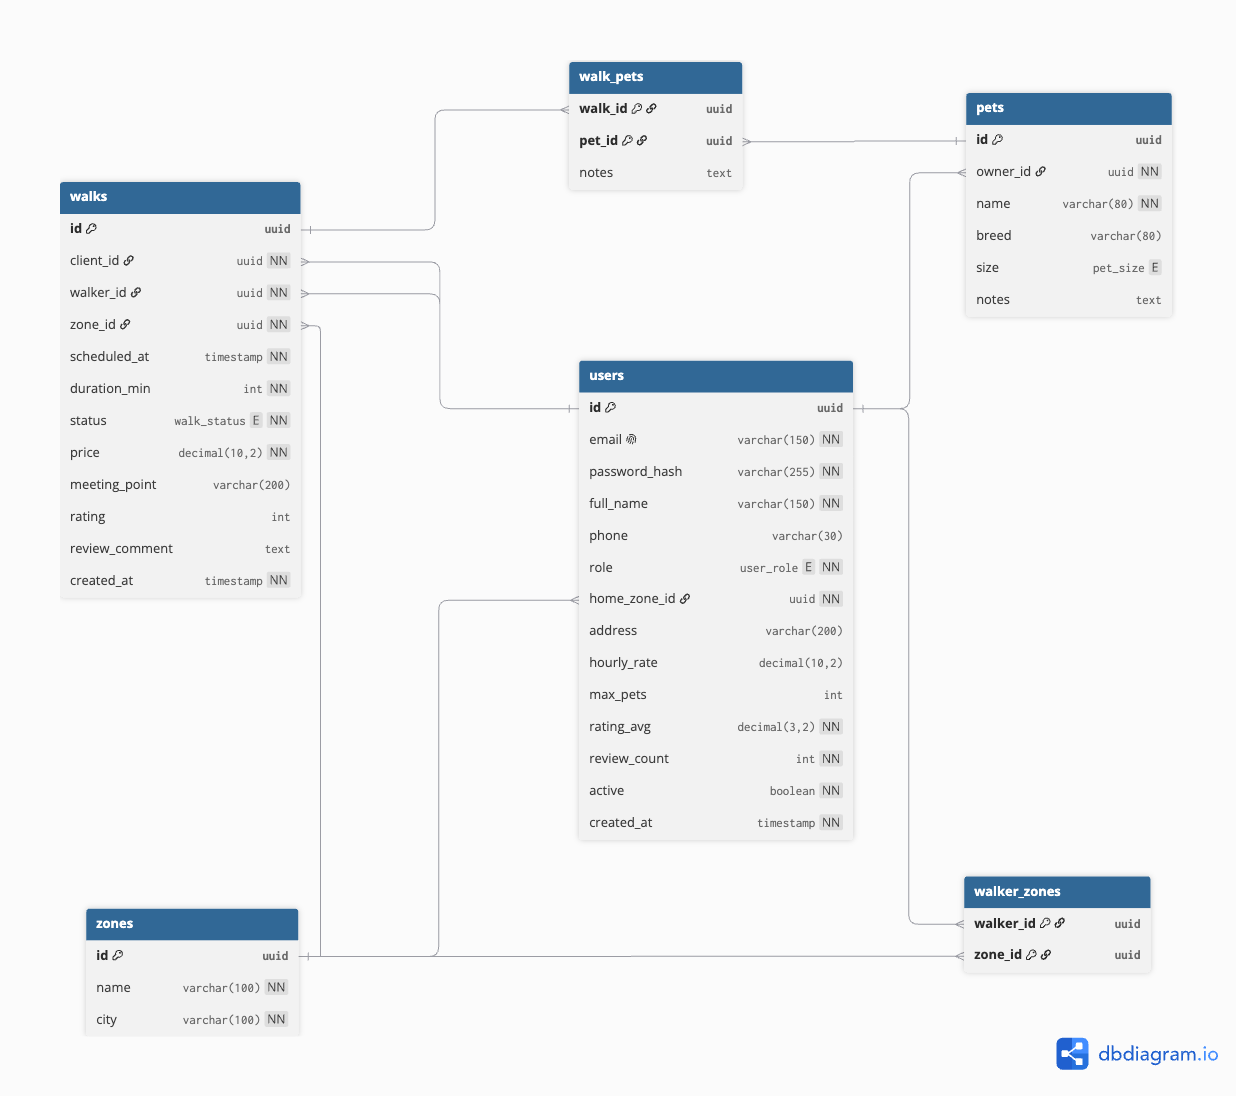
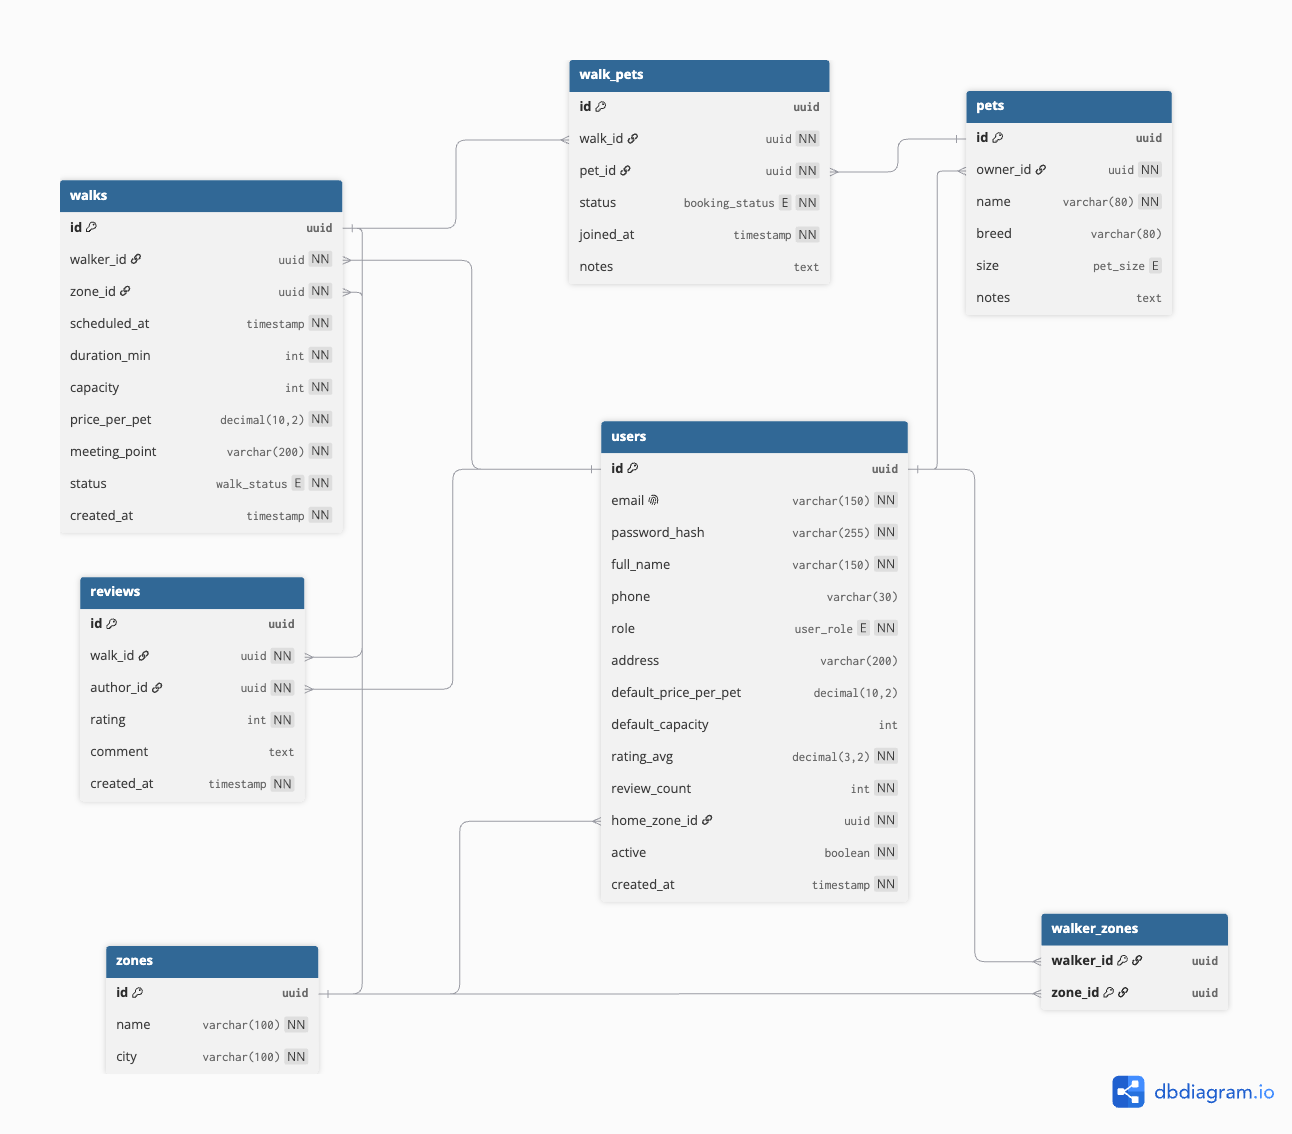
docs: update README for clarity and detail; modify ER diagram

diff --git a/README.md b/README.md
@@ -1,6 +1,6 @@
 # TP 🐾
 
-A web application that connects pet owners with dog walkers in the City of Buenos Aires (CABA), allowing walkers to publish their availability by zone, manage a walk schedule, and letting owners view each walker's coverage area on a map.
+A web application that connects pet owners with dog walkers in the City of Buenos Aires (CABA). Walkers publish group walks — schedule, zone, meeting point, capacity, and price per pet — and owners join with their pets while there's room, replacing informal WhatsApp/social-media coordination with a centralized, reliable platform.
 
 **Capstone Project (Trabajo Final Integrador) — Tecnicatura Universitaria en Programación a Distancia (TUPaD), UTN**
 
@@ -31,18 +31,19 @@ This project is looking for replacing that informal coordination with a centrali
 ## MVP Scope
 
 **In scope:**
-- Registration and profiles for two roles: Owner and Walker
-- Walker profile publishing with coverage zones (predefined neighborhoods), time availability, and a reference hourly rate
+- Registration and profiles for two roles: Owner (client) and Walker
+- Walker profile publishing with coverage zones (predefined neighborhoods), a reference price per pet, and a default group capacity
 - Coverage zone visualization on a map (Leaflet + OpenStreetMap)
-- Walker search and matching by zone and availability
-- Walk scheduling: request, accept/reject, view agreed times
+- Search for published walks by zone
+- Group walk publishing and booking: walkers publish a walk with schedule, meeting point, capacity, and price per pet; owners join their pets until the walk is full. There is no request/accept flow — owners join what's already published
+- Rating and review system for completed walks
 - Basic history of scheduled walks
 
 **Out of scope:**
 - Integrated online payments
 - Real-time GPS tracking during the walk
 - Native mobile app (the web app will be responsive)
-- Rating/review system (future enhancement)
+- Recurring or declared walker availability schedules (a walk's own publication *is* the availability signal — see design decisions)
 - Free-form zone drawing on the map (predefined neighborhoods are used instead of geospatial polygons)
 
 ## Tech Stack
@@ -66,8 +67,7 @@ A layered monolithic architecture (controller → service → repository) built 
 
 ![Diagrama entidad-relación](docs/er-diagram.png)
 
-
-The full DDL script is available at [`/database/schema.sql`](./database/schema.sql).
+Seven tables: `zones`, `users`, `walker_zones`, `pets`, `walks`, `walk_pets`, `reviews`. The canonical schema lives in [`backend/src/main/resources/db/migration/`](./backend/src/main/resources/db/migration/) (Flyway migrations).
 
 ## Design Decisions
 
@@ -75,7 +75,15 @@ The full DDL script is available at [`/database/schema.sql`](./database/schema.s
 
 A single `USERS` table with a `role` field was chosen over separate tables (`OWNERS` and `WALKERS`) from the start, because both roles share the same core identity data — name, email, password, national ID — and the system has only two fixed, mutually exclusive roles, with no need for a user to hold multiple roles at once or for new roles to be added dynamically.
 
-This is a deliberate trade-off that avoids the complexity of a normalized roles table (`roles` plus a `user_roles` join table), which would only add value if the system required configurable or multiple roles per user, for this case outside the MVP's scope. 
+This is a deliberate trade-off that avoids the complexity of a normalized roles table (`roles` plus a `user_roles` join table), which would only add value if the system required configurable or multiple roles per user, for this case outside the MVP's scope.
+
+### Walker publishes, owner joins — no request/accept flow
+
+A walk is an offer the walker publishes (schedule, zone, meeting point, capacity, price per pet); owners pick from what's published instead of requesting a slot and waiting for a response. That single decision removes the need for a separate availability/schedule table: the set of published, non-past walks *is* the walker's availability. The only rule protecting a walker's calendar is that two of their own active walks can't overlap in time.
+
+### `walk_pets` is a business entity, not a join table
+
+Each row is a client's booking of one pet into a published walk: it carries its own `id`, a `status` that changes over time (`JOINED` / `CANCELLED`), and `joined_at`. It is mapped as its own JPA entity rather than a `@ManyToMany`, since a plain join table can't carry that state — and it's the natural place to hang a future payment record, since each client pays for their own booking.
 
 ## Installation and Setup
 
@@ -97,12 +105,13 @@ Required environment variables (backend): `DB_URL`, `DB_USER`, `DB_PASSWORD`, `J
 ## Repository Structure
 
 ```
-walkingpet/
-├── backend/          # REST API — Java + Spring Boot
+trabajo-practico-integrador/
+├── backend/                          # REST API — Java + Spring Boot
+│   └── src/main/resources/db/migration/  # Flyway migrations — canonical schema
+├── frontend/                         # Web app — TypeScript + React
 ├── docs/
-│   └── er-diagram.png
-├── frontend/         # Web app — TypeScript + React
-├── Propuesta TP FINAL .pdf
+│   └── er-diagram.png                # Entity-relationship diagram
+├── Propuesta TP FINAL .pdf           # Original project proposal (1st Delivery)
 └── README.md
 ```
 
